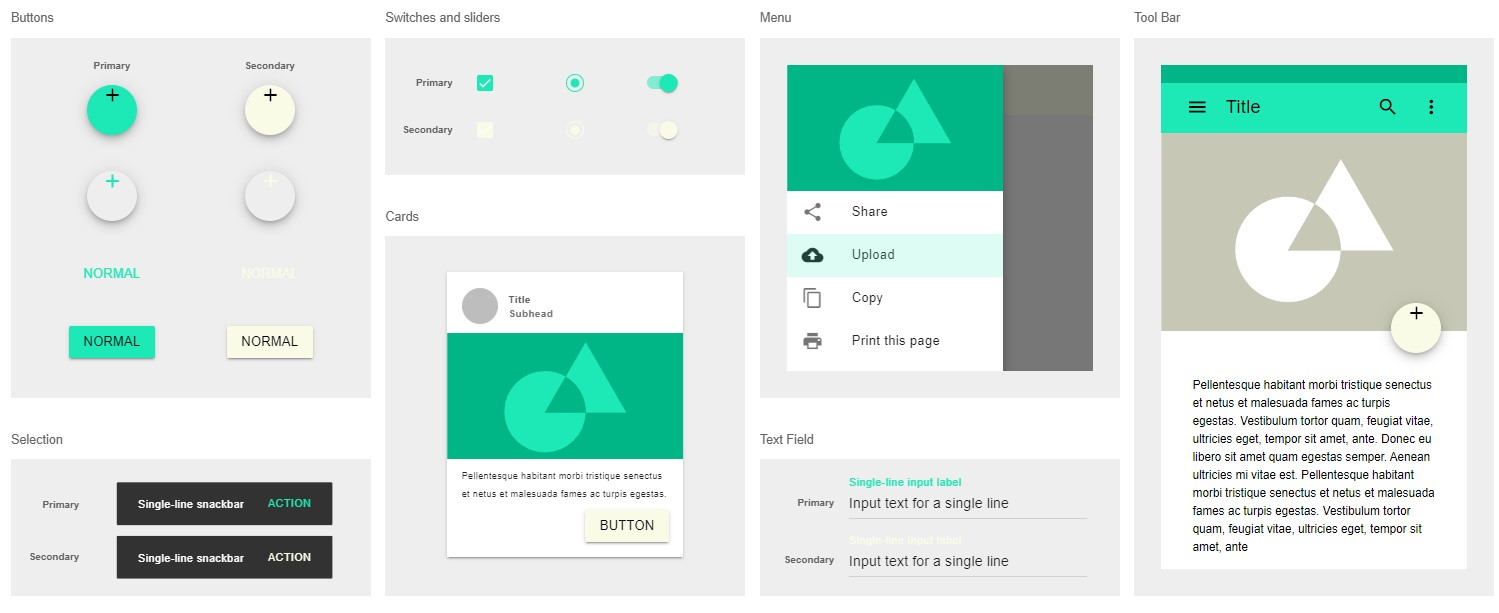
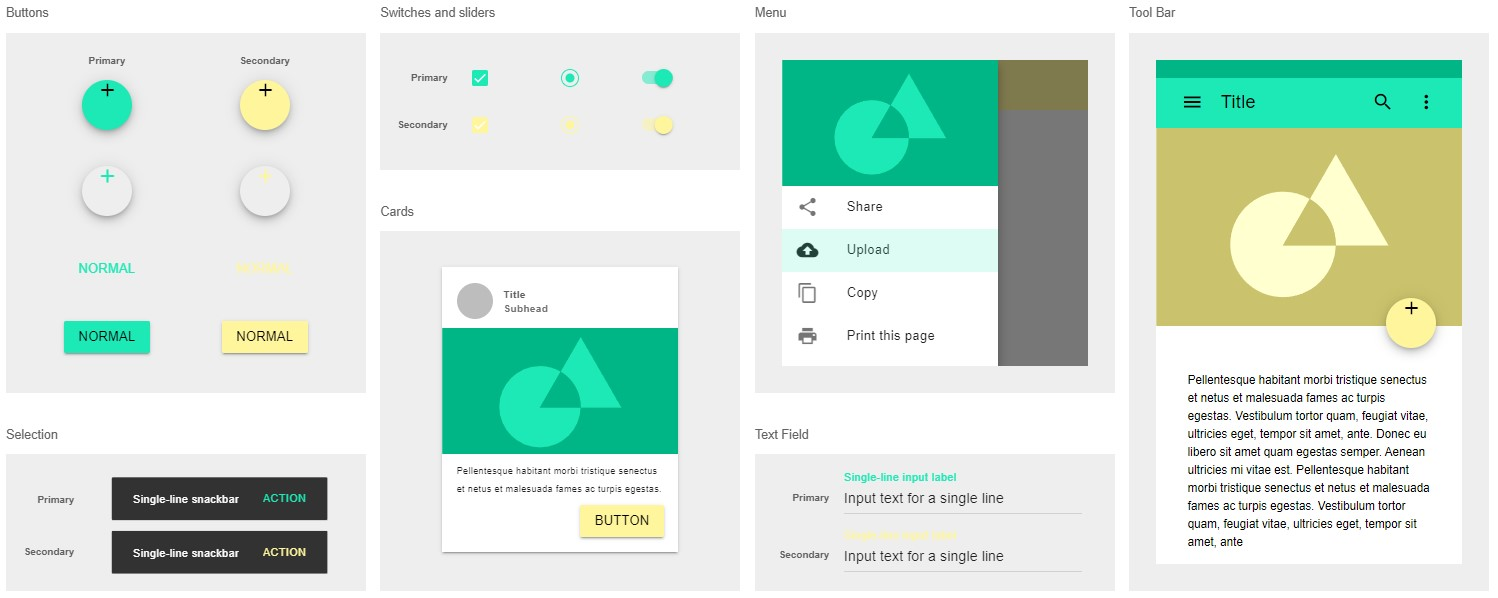
style: Update colour scheme

diff --git a/assets/css/styles-nav.css b/assets/css/styles-nav.css
@@ -15,6 +15,10 @@
     --hamburger-bar-width: 30px;
 
     --nav-menu-margin-right: 20px;
+
+    --menu-button-current-colour: var(--primary);
+    --menu-button-colour: var(--secondary-dark);
+    --menu-button-hover-colour: var(--primary-dark);
 }
 
 /* navigation links
@@ -27,7 +31,7 @@
     flex-direction: row;
     align-items: center;
     justify-content: space-between;
-    background-color: var(--secondary);
+    background-color: var(--background-colour);
     height: var(--padded-menu-height);
     margin-left: var(--std-margin-horz);
     padding: var(--std-padding-vert) var(--std-padding-horz);
@@ -43,7 +47,7 @@
   
 .nav-menu > li {
     overflow: hidden;
-    background-color: var(--secondary);
+    background-color: var(--background-colour);
     text-align: center;
     width: var(--menu-item-width);
 }
@@ -56,9 +60,9 @@
     margin-right: var(--nav-menu-margin-right);
     margin-top: var(--std-margin-vert);
     margin-bottom: var(--std-margin-vert);
-    border: 1px solid var(--primary-light);
+    border: 1px solid var(--menu-button-colour);
+    background-color: var(--menu-button-colour);
     border-radius: var(--std-border-radius);
-    background-color: var(--primary-light);
     padding: var(--std-padding-vert) var(--std-padding-horz);
     flex-direction: row;
     max-width: var(--menu-item-width);
@@ -66,13 +70,13 @@
 }
 
 .nav-menu > li a.current_page {
-    border-color: var(--primary);
-    background-color: var(--primary);
+    border-color: var(--menu-button-current-colour);
+    background-color: var(--menu-button-current-colour);
 }
 
 .nav-menu > li a:hover {
-    border-color: var(--primary-dark);
-    background-color: var(--primary-dark);
+    border-color: var(--menu-button-hover-colour);
+    background-color: var(--menu-button-hover-colour);
 }
 
 .menu-button-container {

diff --git a/assets/css/styles-base.css b/assets/css/styles-base.css
@@ -3,18 +3,20 @@
 
 /* https://developer.mozilla.org/en-US/docs/Web/CSS/Using_CSS_custom_properties */
 :root {
-    /* colour scheme: https://material.io/resources/color/#!/?view.left=0&view.right=0&primary.color=1DE9B6&secondary.color=F9FBE7 */
+    /* colour scheme: https://material.io/resources/color/#!/?view.left=1&view.right=0&primary.color=1DE9B6&secondary.color=FFF59D */
     --primary: #1de9b6;
     --primary-light: #6effe8;
     --primary-dark: #00b686;
-    --secondary: #f9fbe7;
-    --secondary-r: 249;
-    --secondary-g: 251;
-    --secondary-b: 231;
-    --secondary-light: #ffffff;
-    --secondary-dark: #c6c8b5;
+    --secondary: #fff59d;
+    --secondary-r: 255;
+    --secondary-g: 245;
+    --secondary-b: 157;
+    --secondary-light: #ffffcf;
+    --secondary-dark: #cbc26d;
     --primary-text: #000000;
     --secondary-text: #000000;
+
+    --background-colour: var(--secondary-light);
 
     --heading-font: 'Montserrat', sans-serif;
     --heading-font_weight: 500;
@@ -67,7 +69,7 @@ body {
     font-family: var(--paragraph-font);
     font-weight: var(--paragraph-font_weight);
     color: var(--secondary-text);
-    background-color: var(--secondary);
+    background-color: var(--background-colour);
 }
 
 section {

diff --git a/assets/css/styles-index.css b/assets/css/styles-index.css
@@ -1,5 +1,5 @@
 :root {
-	--timeline-year-colour: #00af41;
+	--timeline-year-colour: #0C7E3B;
 
 	--timeline-thickness: 1px;
 	--timeline-even-shift: -1px;	/* to avoid thicker line where top & bottom cells overlap */
@@ -161,7 +161,7 @@ dl .cell::after {
 
 dl .cell dt {
 	/* shift left, body background colour to cover callout line */
-	background-color: var(--secondary);
+	background-color: var(--background-colour);
 	position: relative;
 	left: var(--content-shift);
 
@@ -174,7 +174,7 @@ dl .cell dt {
 
 dl .cell dd {
 	/* shift left, body background colour to cover callout line */
-	background-color: var(--secondary);
+	background-color: var(--background-colour);
 	position: relative;
 	left: var(--content-shift);
     flex-grow: 1;

diff --git a/assets/css/styles-resources.css b/assets/css/styles-resources.css
@@ -2,7 +2,7 @@
 	--std-card-margin: 30px;
 
 	--card-border: 1px;
-	--card-border-colour: var(--primary-light);
+	--card-border-colour: var(--primary-dark);
 	--card-shadow-colour: var(--secondary-dark);
 
 	--card-border-hover: 2px;
@@ -82,11 +82,6 @@ td li {
     background-color: var(--resource-card-background-colour-hover);
 
 }
-
-/* .card:hover {
-	border: var(--card-border-hover) dotted var(--card-border-colour-hover);
-	background-color: var(--card-background-colour-hover);
-} */
 
 
 article h2 {

diff --git a/assets/css/styles-ireland.css b/assets/css/styles-ireland.css
@@ -3,7 +3,7 @@
 	--std-card-margin: 30px;
 
 	--card-border: 1px;
-	--card-border-colour: var(--primary-light);
+	--card-border-colour: var(--primary-dark);
 	--card-shadow-colour: var(--secondary-dark);
 
 	--card-border-hover: 2px;

diff --git a/design/design.md b/design/design.md
@@ -27,6 +27,8 @@
     - [Resources page](#resources-page-1)
   - [09-05-2022](#09-05-2022)
     - [Navigation menu](#navigation-menu)
+  - [11-05-2022](#11-05-2022)
+    - [Colour scheme](#colour-scheme-1)
 
 # Strategy
 The strategy is to create a website outlining the history of field hockey. It will provide a brief overview of the development of the game and act as a resource for hockey related information.
@@ -113,8 +115,9 @@ font-family: 'Montserrat', sans-serif;
 
 
 ## Colour Scheme
-https://material.io/resources/color/#!/?view.left=0&view.right=0&primary.color=1DE9B6&secondary.color=F9FBE7 
-https://codepen.io/ibuttimer/pen/xxpzPKa 
+[material.io Color Tool](https://material.io/resources/color/#!/?view.left=1&view.right=0&primary.color=1DE9B6&secondary.color=FFF59D)
+
+[codepen.io example](https://codepen.io/ibuttimer/pen/LYQZJYY) 
 
 ![](img/colour-scheme-example.jpg)
 
@@ -162,4 +165,7 @@ Added Resources page design.
 ## 09-05-2022
 ### Navigation menu
 Updated navigation menu to utilise hamburger menu on small screens. 
+## 11-05-2022
+### Colour scheme
+Updated colour scheme. 
 
